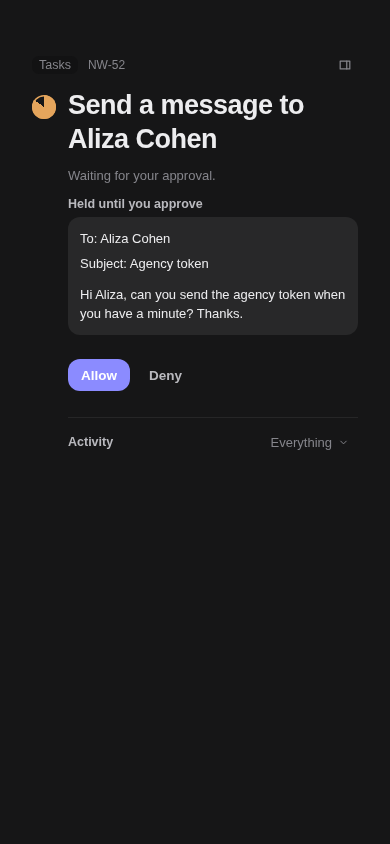
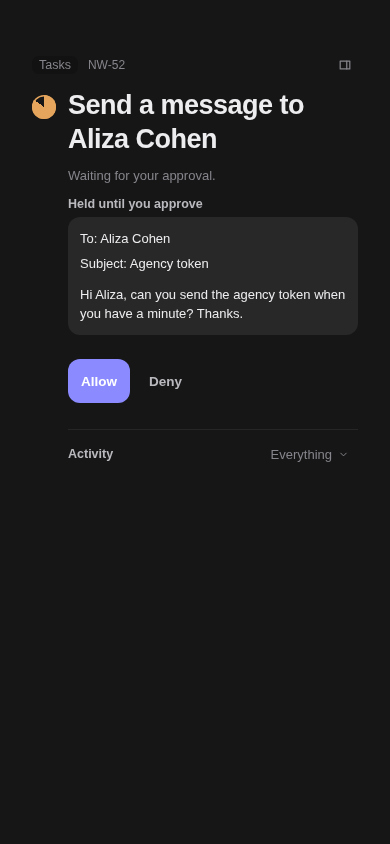
fix(tasks): 44 px task page buttons on a phone

Changed region(s): [[0.1538, 0.4313, 0.3385, 0.5545], [0.6769, 0.5237, 0.8615, 0.5545], [0.3692, 0.4313, 0.4615, 0.4621]]

diff --git a/apps/app/src/places/chats/tasks/TaskDetail.tsx b/apps/app/src/places/chats/tasks/TaskDetail.tsx
@@ -360,7 +360,9 @@ function YourAction({ task, view, me, run, menu, list, mode, setMode, nameOf }: 
 }
 
 function Btn({ label, onPress, primary = false, testID }: { label: string; onPress(e: unknown): void; primary?: boolean; testID?: string }): ReactElement {
-  return <Pressable accessibilityRole="button" accessibilityLabel={label} testID={testID} onPress={onPress} style={({ hovered }: { hovered?: boolean }) => [st.btn, primary && st.btnPrimary, hovered === true && !primary && { backgroundColor: "var(--hover)" as string }]}><Text style={[st.btnText, primary && { color: "var(--accent-ink)" as string }]}>{label}</Text></Pressable>;
+  // a phone's hit target is 44 px (the design system); the same 640 px phone line the join screens use
+  const phone = useWindowDimensions().width <= 640;
+  return <Pressable accessibilityRole="button" accessibilityLabel={label} testID={testID} onPress={onPress} style={({ hovered }: { hovered?: boolean }) => [st.btn, phone && { height: 44 }, primary && st.btnPrimary, hovered === true && !primary && { backgroundColor: "var(--hover)" as string }]}><Text style={[st.btnText, primary && { color: "var(--accent-ink)" as string }]}>{label}</Text></Pressable>;
 }
 
 function Block({ title, right, children }: { title?: string; right?: string; children: ReactNode }): ReactElement {

diff --git a/changelog.d/wip-l-taskfix.md b/changelog.d/wip-l-taskfix.md
@@ -1,2 +1,3 @@
 - Task page: a held send shows its recipient, subject and words; an expired request shows when and no Approve; a refused approval ends as Not approved and leaves Needs you; an approval you hold for your own agent says Waiting for your approval instead of You to You. tasks.get now returns expiresAt.
 - Task page rail: the bare kind label under Working notes is gone; the held message sits on the --sel wash (12 px, no border).
+- Task page buttons are 44 px high on a phone.
